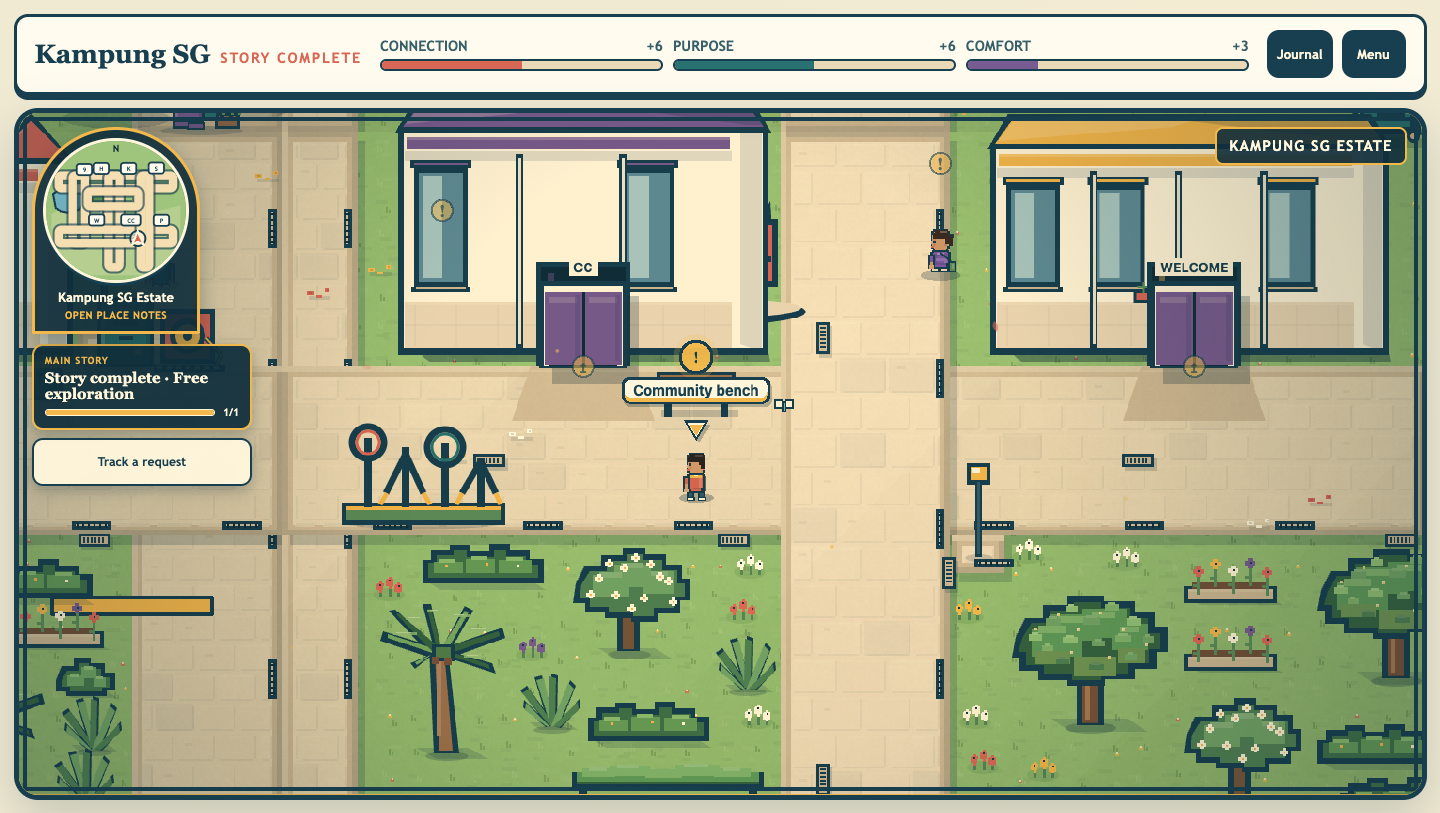
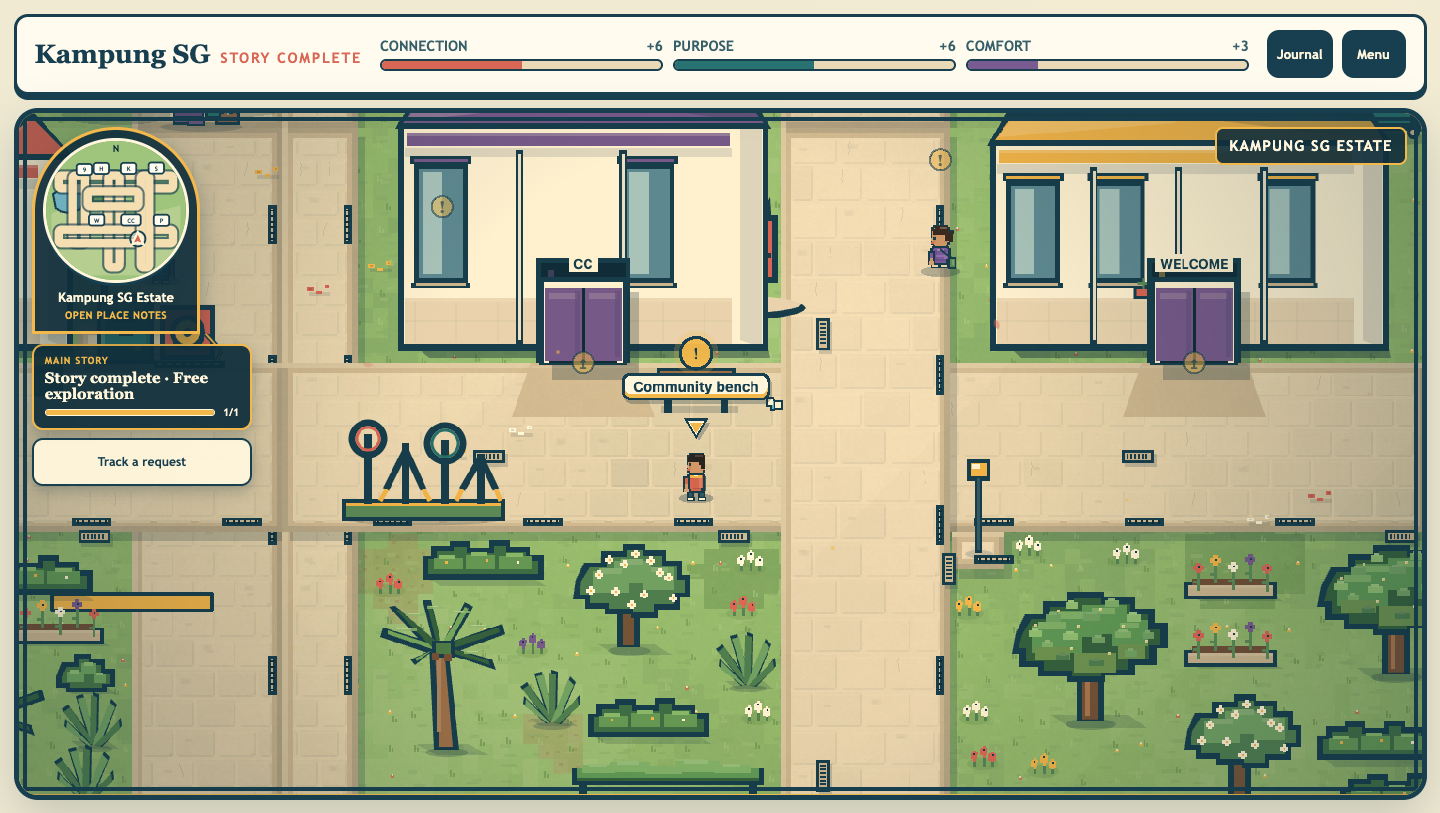
Give the ground macro structure, not just grain
The estate is roughly 60% ground and that ground was nearly featureless:
one flat green, and paving whose three tones sat 3-5% apart on a
ruler-straight grid. Adding per-pixel grain earlier did not fix it,
because grain is texture, not structure - it cannot make a uniform
surface stop looking uniform.

What was missing is variation at a scale the eye reads as *place*. A
smooth low-frequency field, keyed on world position so patches run
continuously across the seams of the four baked tiles, now drives:

- turf mottled into soft patches across seven tones, with damp mossy
  hollows and trodden bare earth where the field bottoms out
- paving slabs whose tone follows a broad wear field over six steps
  instead of a per-slab coin flip, so the plaza has sun-bleached runs
  and damp corners spanning many slabs
- per-slab wear on a minority of slabs: a stepped hairline crack, a
  chipped corner exposing the paler bed, a soft stain, aggregate speckle

Measured on the same crop: grass tones 144 to 222, paving tones 481 to
587. The numbers are not the point - the point is the ground now reads as
laid rather than printed, which the colour count alone would not have
told me.

All of it is deterministic and baked once, so nothing here costs a frame.

Gate: typecheck clean, 137 tests, 65/65 smoke, 0 vulnerabilities.

diff --git a/src/game/threeQuarterArt.ts b/src/game/threeQuarterArt.ts
@@ -19,6 +19,41 @@ function hash(x: number, y: number): number {
   return Math.imul(value, 0xc2b2ae35) >>> 0;
 }
 
+/**
+ * Smooth low-frequency noise in [0,1], keyed on world position.
+ *
+ * The ground was built from three slab tones separated by 3-5% lightness and a
+ * single flat green, which reads as a printed grid rather than a place. Grain
+ * could not fix that: per-pixel jitter adds texture, not structure. This gives
+ * the painters large soft regions to vary against - worn patches, damp corners,
+ * sun-bleached stretches - which is what actually makes ground look crafted.
+ *
+ * Keyed on world coordinates, not tile-local ones, so patches run continuously
+ * across the seams of the four baked 1280x800 textures.
+ */
+function macroField(worldX: number, worldY: number, cell: number): number {
+  const gridX = Math.floor(worldX / cell);
+  const gridY = Math.floor(worldY / cell);
+  const fracX = worldX / cell - gridX;
+  const fracY = worldY / cell - gridY;
+  // Smoothstep, so cells blend instead of banding at their borders.
+  const ease = (t: number): number => t * t * (3 - 2 * t);
+  const easedX = ease(fracX);
+  const easedY = ease(fracY);
+  const corner = (x: number, y: number): number => (hash(x, y) % 4096) / 4096;
+  const top = corner(gridX, gridY) * (1 - easedX)
+    + corner(gridX + 1, gridY) * easedX;
+  const bottom = corner(gridX, gridY + 1) * (1 - easedX)
+    + corner(gridX + 1, gridY + 1) * easedX;
+  return top * (1 - easedY) + bottom * easedY;
+}
+
+/** Picks a tone band from a field value, dithered so bands never show a seam. */
+function tonalStep(field: number, jitter: number, steps: number): number {
+  const dithered = field + (jitter / 4096 - 0.5) * (0.9 / steps);
+  return Math.max(0, Math.min(steps - 1, Math.floor(dithered * steps)));
+}
+
 function intersect(
   rectangle: EstateRect,
   originX: number,
@@ -75,11 +110,17 @@ function paintStreet(
       const worldX = column * tileWidth + stagger;
       const x = worldX - originX;
       const seed = hash(column + (street.id.length * 7), row);
-      const tileBase = seed % 5 === 0
-        ? lightenColour(base, 0.055)
-        : seed % 7 === 0
-          ? darkenColour(base, 0.035)
-          : base;
+      // Slab tone follows a broad wear field, not just a per-slab coin flip:
+      // three tones separated by 3-5% read as a printed grid, which is what
+      // the plaza looked like. Six tones over a macro field give the surface
+      // sun-bleached runs and damp corners that span many slabs.
+      const wear = macroField(worldX, worldY, 336) * 0.7
+        + macroField(worldX + 613, worldY + 401, 112) * 0.3;
+      const SLAB_SHIFTS = [-0.085, -0.05, -0.022, 0.012, 0.045, 0.08] as const;
+      const shift = SLAB_SHIFTS[tonalStep(wear, seed % 4096, SLAB_SHIFTS.length)] ?? 0;
+      const tileBase = shift < 0
+        ? darkenColour(base, -shift)
+        : lightenColour(base, shift);
       const clippedLeft = Math.max(left, x + 1);
       const clippedTop = Math.max(top, y + 1);
       const clippedRight = Math.min(right, x + tileWidth - 2);
@@ -97,6 +138,54 @@ function paintStreet(
         graphics
           .fillStyle(darkenColour(tileBase, 0.17), 0.28)
           .fillRect(clippedLeft + 7 + seed % 9, clippedTop + 8 + (seed >>> 5) % 7, 8, 3);
+      }
+
+      // Surface wear. Slabs that are all identical read as wallpaper; a
+      // minority carrying a crack, a chipped corner, a stain or aggregate
+      // speckle is what makes paving look laid rather than printed.
+      const wide = clippedRight - clippedLeft;
+      const tall = clippedBottom - clippedTop;
+      if (wide > 20 && tall > 16) {
+        const crackShade = darkenColour(tileBase, 0.2);
+        if (seed % 11 === 4) {
+          // Hairline crack: a short stepped run, never a straight ruled line.
+          let crackX = clippedLeft + 5 + seed % Math.max(1, wide - 14);
+          let crackY = clippedTop + 3;
+          graphics.fillStyle(crackShade, 0.5);
+          for (let step = 0; step < 5 && crackY < clippedBottom - 3; step += 1) {
+            graphics.fillRect(crackX, crackY, 1, 3);
+            crackX += ((seed >>> (step * 3)) % 3) - 1;
+            crackX = Math.max(clippedLeft + 2, Math.min(clippedRight - 3, crackX));
+            crackY += 3;
+          }
+        }
+        if (seed % 17 === 7) {
+          // Chipped corner, exposing the paler bed underneath.
+          graphics
+            .fillStyle(darkenColour(tileBase, 0.13), 0.55)
+            .fillRect(clippedRight - 5, clippedBottom - 4, 4, 3)
+            .fillStyle(lightenColour(tileBase, 0.14), 0.42)
+            .fillRect(clippedRight - 4, clippedBottom - 3, 2, 1);
+        }
+        if (seed % 13 === 6) {
+          // Soft stain, larger and fainter than the existing scuff.
+          graphics
+            .fillStyle(darkenColour(tileBase, 0.11), 0.3)
+            .fillRect(clippedLeft + 3 + seed % 7, clippedTop + 4 + (seed >>> 7) % 6, 11, 6)
+            .fillStyle(darkenColour(tileBase, 0.15), 0.22)
+            .fillRect(clippedLeft + 5 + seed % 7, clippedTop + 6 + (seed >>> 7) % 6, 6, 3);
+        }
+        // Aggregate speckle: three flecks per slab, deterministic from seed.
+        graphics.fillStyle(darkenColour(tileBase, 0.14), 0.34);
+        for (let fleck = 0; fleck < 3; fleck += 1) {
+          const flake = hash(column * 31 + fleck, row * 17 + fleck);
+          graphics.fillRect(
+            clippedLeft + 3 + flake % Math.max(1, wide - 6),
+            clippedTop + 3 + (flake >>> 8) % Math.max(1, tall - 6),
+            1,
+            1,
+          );
+        }
       }
     }
   }
@@ -138,6 +227,48 @@ export function paintThreeQuarterTerrain(
   const lightGrass = lightenColour(PALETTE.grass, 0.12);
   const darkGrass = darkenColour(PALETTE.grass, 0.12);
   graphics.fillStyle(PALETTE.grass).fillRect(0, 0, width, height);
+
+  // Macro pass: mottle the turf into soft patches before any blade detail.
+  // Sub-cells are 16px so the bands read as organic variation rather than as
+  // the 32px gameplay grid, and the per-pixel grain pass softens them further.
+  const TURF_TONES = [
+    darkenColour(PALETTE.grass, 0.17),
+    darkenColour(PALETTE.grass, 0.1),
+    darkenColour(PALETTE.grass, 0.04),
+    PALETTE.grass,
+    lightenColour(PALETTE.grass, 0.05),
+    lightenColour(PALETTE.grass, 0.11),
+    lightenColour(PALETTE.grass, 0.17),
+  ] as const;
+  const MOSS = darkenColour(PALETTE.grassDark, 0.06);
+  const EARTH = 0xa88a5f;
+  const PATCH = 16;
+  for (let y = 0; y < height; y += PATCH) {
+    for (let x = 0; x < width; x += PATCH) {
+      const worldX = originX + x;
+      const worldY = originY + y;
+      const jitter = hash(worldX, worldY) % 4096;
+      // Two scales: broad meadow banding, plus finer clumping on top.
+      const meadow = macroField(worldX, worldY, 288) * 0.68
+        + macroField(worldX + 911, worldY + 137, 96) * 0.32;
+      graphics
+        .fillStyle(TURF_TONES[tonalStep(meadow, jitter, TURF_TONES.length)] ?? PALETTE.grass)
+        .fillRect(x, y, PATCH, PATCH);
+
+      // Damp shaded hollows and trodden bare earth, both rare and clustered.
+      const damp = macroField(worldX + 4231, worldY + 2087, 176);
+      if (damp > 0.86) {
+        graphics.fillStyle(MOSS, 0.5).fillRect(x, y, PATCH, PATCH);
+      } else if (damp < 0.1) {
+        graphics
+          .fillStyle(EARTH, 0.34)
+          .fillRect(x, y, PATCH, PATCH)
+          .fillStyle(darkenColour(EARTH, 0.16), 0.3)
+          .fillRect(x + 3 + jitter % 6, y + 4 + (jitter >>> 4) % 6, 4, 3);
+      }
+    }
+  }
+
   for (let y = 0; y < height; y += TILE_SIZE) {
     for (let x = 0; x < width; x += TILE_SIZE) {
       const seed = hash(Math.floor((originX + x) / TILE_SIZE), Math.floor((originY + y) / TILE_SIZE));
